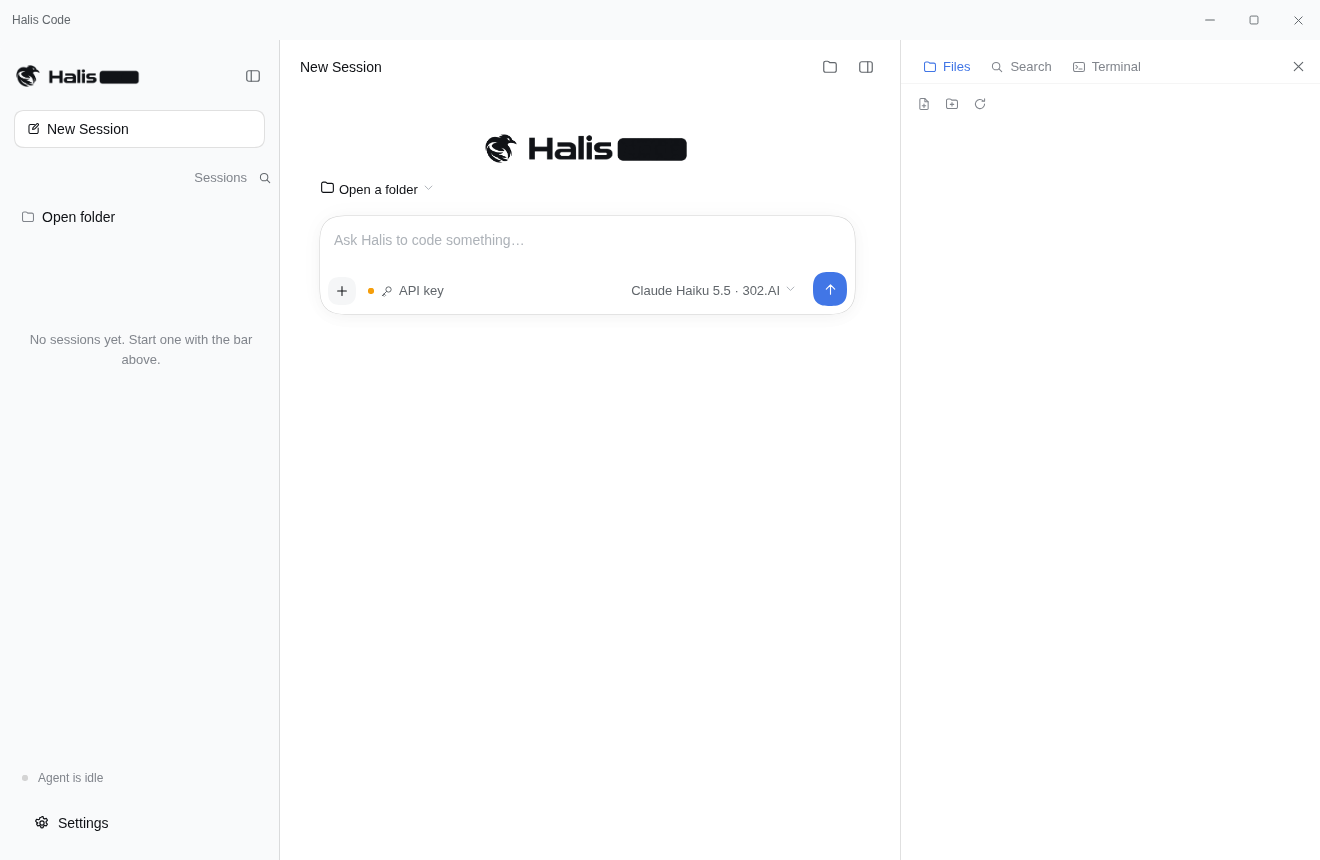
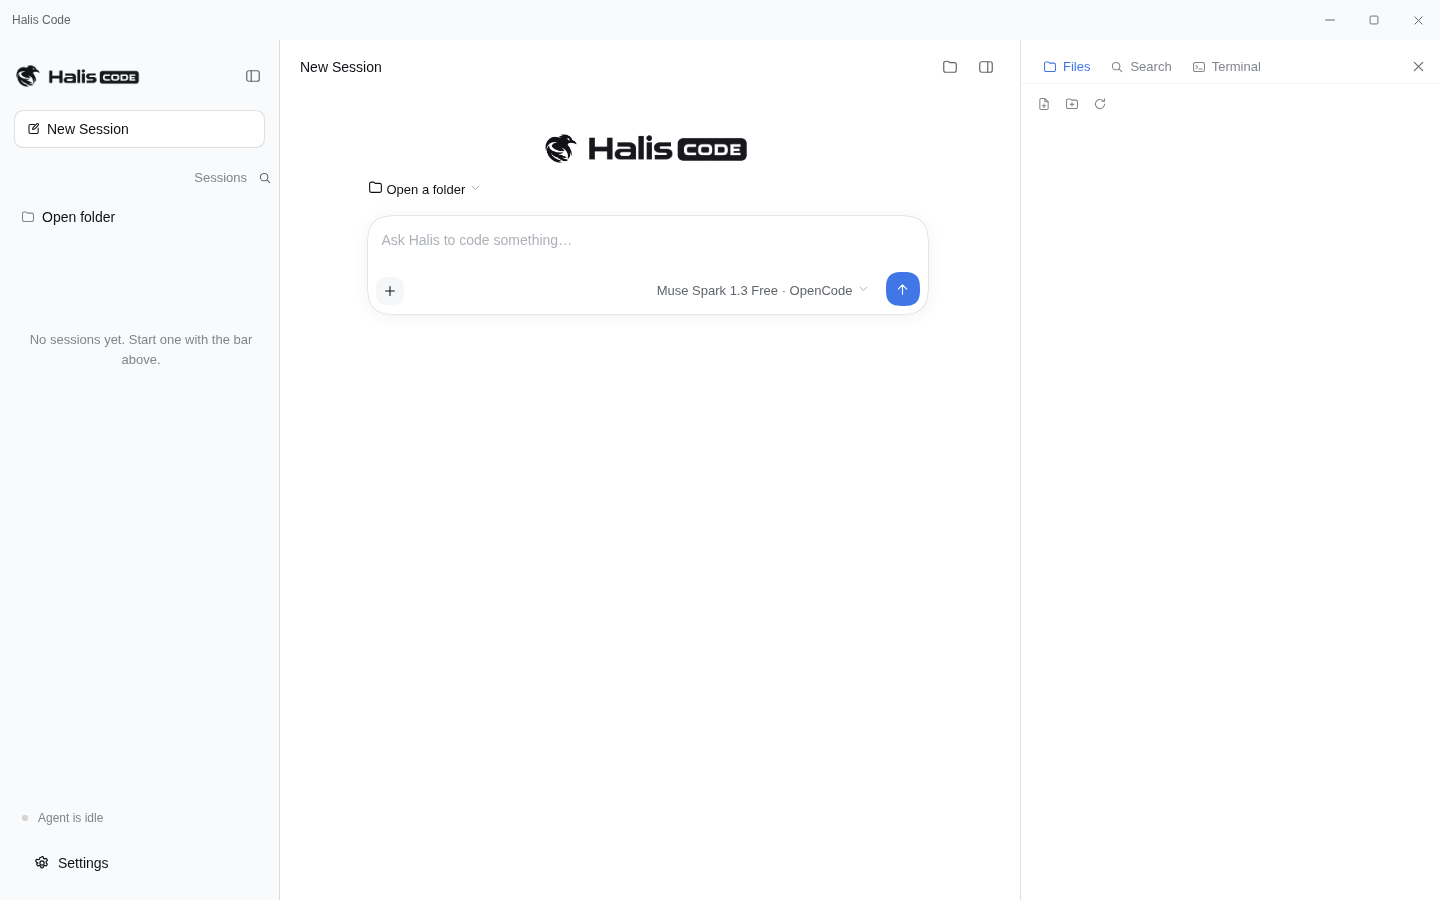
swap the screenshots for a 20-shot tour, document the default model

diff --git a/README.md b/README.md
@@ -46,10 +46,15 @@ approvals, skills — scaled down to a single-user desktop app.
 | | |
 | --- | --- |
 | ![Startup splash](docs/screenshots/01-startup-splash.png) <br>**Startup splash** | ![First-run home](docs/screenshots/02-welcome-home.png) <br>**First-run home** |
-| ![Workspace explorer](docs/screenshots/03-workspace-explorer.png) <br>**Workspace explorer** | ![Editor](docs/screenshots/04-editor.png) <br>**Editor** |
-| ![Workspace search](docs/screenshots/05-search.png) <br>**Workspace search** | ![Built-in terminal](docs/screenshots/06-terminal.png) <br>**Built-in terminal** |
-| ![Settings](docs/screenshots/07-settings.png) <br>**Settings** | ![Model picker](docs/screenshots/08-model-picker.png) <br>**Model picker** |
-| ![Slash commands](docs/screenshots/09-slash-commands.png) <br>**Slash commands** | |
+| ![Workspace explorer](docs/screenshots/03-workspace-explorer.png) <br>**Workspace explorer** | ![Expanded folders](docs/screenshots/04-explorer-expanded.png) <br>**Expanded folders** |
+| ![Editor](docs/screenshots/05-editor.png) <br>**Editor** | ![Editor tabs](docs/screenshots/06-editor-tabs.png) <br>**Editor tabs** |
+| ![Workspace search](docs/screenshots/07-workspace-search.png) <br>**Workspace search** | ![Built-in terminal](docs/screenshots/08-terminal.png) <br>**Built-in terminal** |
+| ![Settings](docs/screenshots/09-settings.png) <br>**Settings** | ![Model picker](docs/screenshots/10-model-picker.png) <br>**Model picker** |
+| ![Model search](docs/screenshots/11-model-picker-search.png) <br>**Model search** | ![Reasoning variants](docs/screenshots/12-model-variants.png) <br>**Reasoning variants** |
+| ![Slash commands](docs/screenshots/13-slash-commands.png) <br>**Slash commands** | ![Streaming answer](docs/screenshots/14-agent-streaming.png) <br>**Streaming answer** |
+| ![Plan and tool cards](docs/screenshots/15-tool-cards.png) <br>**Plan + tool cards** | ![Command approval](docs/screenshots/16-approval-card.png) <br>**Command approval** |
+| ![Provider key dialog](docs/screenshots/17-key-dialog.png) <br>**Provider key dialog** | ![Dark theme](docs/screenshots/18-dark-theme.png) <br>**Dark theme** |
+| ![Focus mode](docs/screenshots/19-focus-mode.png) <br>**Focus mode** | ![Session history](docs/screenshots/20-session-history.png) <br>**Session history** |
 
 ## Getting started
 
@@ -62,10 +67,12 @@ Other scripts: `npm run typecheck`, `npm run build`, `npm run watch`,
 `npm run smoke` (algorithm smoke tests).
 
 Pick a model from the models.dev catalog through the composer's model
-pill. The first time you use a model whose provider needs a key, Halis
-pops a dialog asking for it — the key stays in the local vault and never
-leaves the machine. Local servers like LM Studio run without any key at
-all. Open a folder, and start talking.
+pill. Halis boots with **Muse Spark 1.3 Free** (OpenCode) as the default —
+strong, free, and served without an API key, so the first chat works out
+of the box. The first time you pick a model whose provider does need a
+key, Halis pops a dialog asking for it — the key stays in the local vault
+and never leaves the machine. Local servers like LM Studio run without
+any key at all. Open a folder, and start talking.
 
 ## Layout
 
